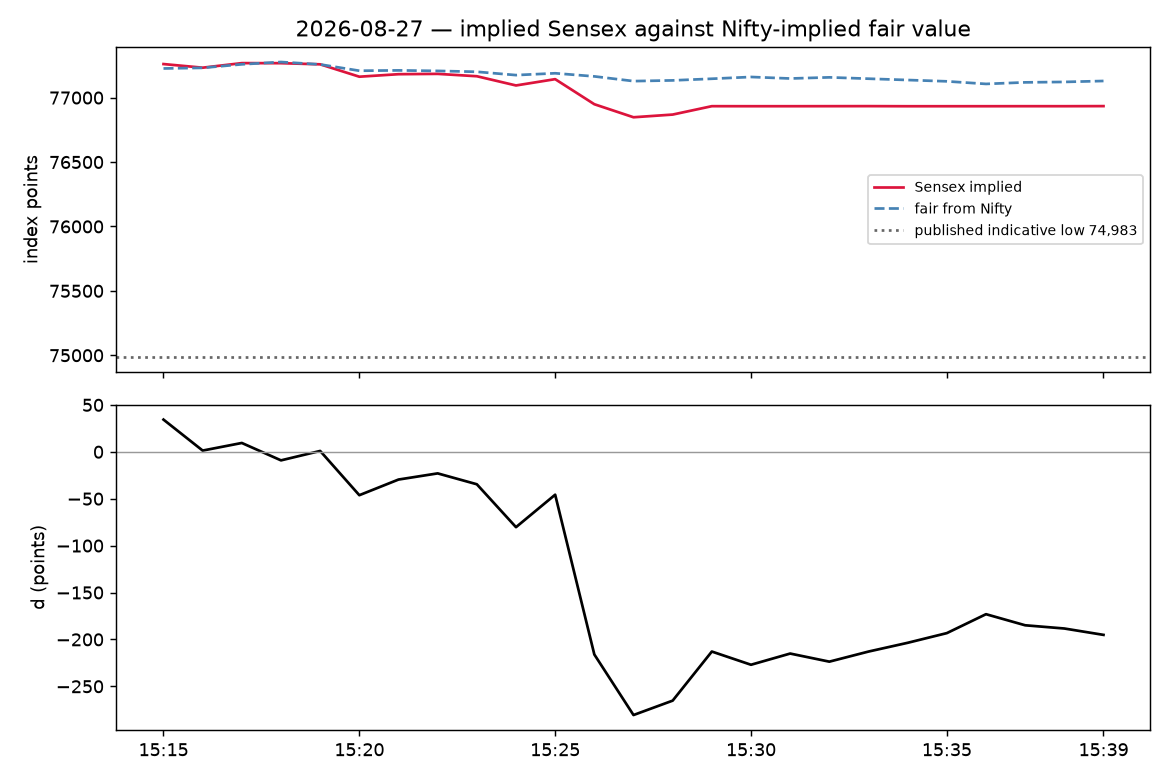
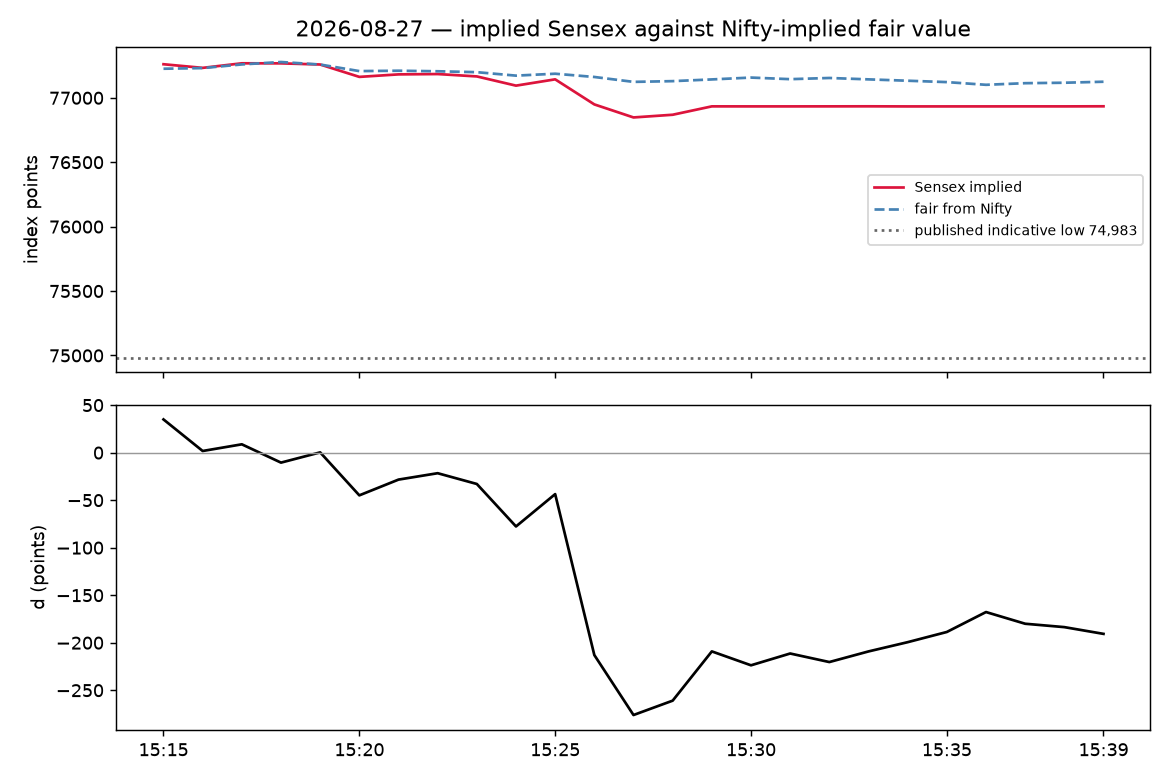
research: fix the beta sample, and report the trigger across beta instead of asserting it
Incorporates the Fable review. Four substantive corrections:

Daily closes now take each session's last index bar before 16:00, and only where that bar
lands at or after 15:20. The NIFTY feed carries stub bars hours after the close, and the
quarantined 08-25 ends at 13:04 - a mid-day level that was being differenced as a close.
Beta moves 0.8703 -> 0.9048 and the fit improves (R2 0.7763 -> 0.8392, SE 0.0853 -> 0.0735).

Whether the trigger fires is the central claim, so it is recomputed across beta rather than
asserted from the point estimate. At X = 0.5% the dislocated session never fires at any
beta from beta-SE to 1, but 08-04 does fire at beta+SE and at beta = 1 - so the blanket
claim "0.5% never fires" was wrong and is now stated with its range.

The 08-27 comparison is restated raw-to-raw and by timing: during the indicative crash
minutes themselves d ran +0.28 to -44.93 points, about 2% of the dislocation, and the
-276.08 peak arrived at 15:27, four minutes after the indicative had recovered.

The band null is split into the arithmetic half (no listed strike lies outside the band)
and the empirical half (no in-band strike traded above its own cap, the tightest being
629.70 points on 08-25). A 4,800% rise from 0.05 to 2.45 rupees sits inside a 75-133 point
cap, so it is not by itself evidence of overpricing, and the corpus carries no bar for that
strike to test either way.

Also: 08-27 ranks third by |d|, not second; S2/S3 sizing labelled notional rather than
[…]

diff --git a/research/expiry_cas/cross_index.py b/research/expiry_cas/cross_index.py
@@ -50,7 +50,8 @@ from load import DATASETS_ROOT, QUARANTINE_ROOT, SessionData, load_session
 
 from xman_research.backtest.costs import ChargeableTrade, Side, StatutoryCostStack, TradeKind
 
-#: Sessions where both underlyings carry option bars under the CAS regime.
+#: Candidate post-CAS sessions. Coverage decides which of them carry a parity-recoverable
+#: chain on both sides — three NIFTY sessions here are published with call bars only.
 SESSIONS = [
     "2026-08-03", "2026-08-04", "2026-08-05", "2026-08-06", "2026-08-07",
     "2026-08-10", "2026-08-11", "2026-08-12", "2026-08-13", "2026-08-14",
@@ -73,6 +74,11 @@ WINDOW_END = dt.time(15, 39)
 
 #: Constituent auction price band, as a fraction of the constituent's reference VWAP.
 BAND = 0.03
+
+#: Earliest last-index-bar a session may have and still contribute a daily close. A feed
+#: that dies before this carries no close, and a mid-day level differenced as one would
+#: report the rest of that day's move on the following session.
+MIN_CLOSE_TIME = dt.time(15, 20)
 
 LOT_DEFAULT = {"SENSEX": 20, "NIFTY": 65}
 
@@ -165,8 +171,12 @@ def _daily_closes(underlying: str) -> pd.Series:
     """Official daily closes from the index symbol's own bars, one per session.
 
     The last index bar of a session carries the settled close (the vendor back-stamps it),
-    which is the number a daily return should use. Sessions where the index symbol is
-    absent are dropped rather than filled.
+    which is the number a daily return should use — but only among **trading minutes**.
+    Some sessions carry a stub bar hours after the close (18:00, and later), and a session
+    whose index feed dies mid-afternoon has no close at all in its bars. Both are excluded
+    by the same rule the session loader applies: bars at or after 16:00 are not trading
+    minutes, and a session whose last surviving index bar predates ``MIN_CLOSE_TIME`` is
+    dropped rather than have a mid-day level stand in for its close.
     """
     out: dict[dt.date, float] = {}
     for root in (DATASETS_ROOT, QUARANTINE_ROOT):
@@ -184,7 +194,13 @@ def _daily_closes(underlying: str) -> pd.Series:
             )
             if frame.empty:
                 continue
-            frame = frame.sort_values("minute_ts")
+            stamps = pd.to_datetime(frame["minute_ts"], unit="us", utc=True).dt.tz_convert(
+                "Asia/Kolkata"
+            )
+            frame = frame.assign(ts=stamps).sort_values("ts")
+            frame = frame[frame["ts"].dt.hour < 16]
+            if frame.empty or frame["ts"].iloc[-1].time() < MIN_CLOSE_TIME:
+                continue
             out[day] = float(frame["close"].iloc[-1])
     return pd.Series(out).sort_index()
 
@@ -768,6 +784,29 @@ def main() -> None:
     )
     triggers = pd.DataFrame([trigger_stats(frames, x) for x in (0.25, 0.5, 1.0, 1.5)])
 
+    # Whether the trigger fires at all is the report's central claim, so it is recomputed
+    # across the estimator's own uncertainty rather than asserted from the point estimate.
+    # beta = 1 sits 1.3 standard errors away and is the case a reader is most likely to
+    # reach for, so it is named explicitly.
+    robustness = []
+    for label, candidate in (
+        ("beta - SE", beta_fit.beta - beta_fit.stderr),
+        ("beta (fitted)", beta_fit.beta),
+        ("beta + SE", beta_fit.beta + beta_fit.stderr),
+        ("beta = 1", 1.0),
+    ):
+        alt = {
+            date: divergence(s_imp, n_imp, candidate) for date, (s_imp, n_imp) in implied.items()
+        }
+        alt = {d: f for d, f in alt.items() if not f.empty}
+        pooled = pd.concat(alt.values())["d_pct"].abs()
+        row: dict[str, object] = {"case": label, "beta": candidate, "max_abs_d_pct": pooled.max()}
+        for x in (0.25, 0.5, 1.0, 1.5):
+            fired = trigger_stats(alt, x)
+            row[f"fired at {x}%"] = f"{fired['sessions_fired']} ({fired['dates']})"
+        robustness.append(row)
+    robustness_frame = pd.DataFrame(robustness)
+
     s1 = pd.DataFrame(
         [
             row
@@ -831,6 +870,9 @@ def main() -> None:
         "## Trigger statistics",
         "",
         _md(triggers),
+        "## Trigger robustness across the beta estimate's own uncertainty",
+        "",
+        _md(robustness_frame, "{:.4f}"),
         "## Band versus ladder",
         "",
         _md(bands),

diff --git a/research/expiry_cas/CROSS_INDEX.md b/research/expiry_cas/CROSS_INDEX.md
@@ -2,14 +2,19 @@
 
 **The thesis under test** (owner, 2026-08-29): *"Sensex jumped during CAS and option premiums skyrocketed; Nifty, highly correlated, didn't move during CAS, so none of Nifty's premiums moved — which means the Sensex move was going to revert. There is a short-term strategy here."*
 
-**The verdict.** The reversion logic is sound and the microstructure supports it, but the dislocation the thesis is built on **is not in the derivatives market**. On 2026-08-27 the Sensex option-implied index moved **−0.40 %** over 15:14 → 15:39 while Nifty's moved **−0.17 %** — both indices moved, in the same direction, and the entire cross-index asymmetry was **280.60 points (−0.36 %) at its peak**. The published indicative index fell **2,199.72 points (−2.85 %)** over the same window. So the derivatives carried **12.8 %** of the dislocation the thesis assumes was tradeable; the other 87 % existed only in the cash auction's indicative feed, which no traded instrument printed and this corpus does not contain.
+**The verdict.** The reversion logic is sound and the microstructure supports it, but the dislocation the thesis is built on **is not in the derivatives market**, and the trigger the strategies need does not fire on the session that matters.
+
+**The timing is the sharpest way to see it.** The published indicative index fell 2,199.72 points (−2.85 %) between **15:18 and 15:23**. Across exactly those minutes the Sensex option-implied index sat between **77,162.45 and 77,267.45** — within ~80 points of its 15:14 reference of 77,242.30 — and the cross-index divergence `d` ran **+0.28 to −44.93 points (≤0.06 %)**. The derivatives carried **~2 % of the dislocation while it was happening**, and did not follow the auction down at all.
+
+What the derivatives did do came later and was much smaller. Sensex implied troughed at **76,847.60 at 15:27** — **−394.70 points (−0.511 %)**, or **17.9 %** of the indicative drop, and four minutes *after* the indicative had already recovered. The Nifty-adjusted residual `d` peaked at **−276.08 points (−0.36 %)** in that same minute, **12.6 %** of the indicative drop. Over 15:14 → 15:39 Sensex implied moved **−0.40 %** and Nifty implied **−0.17 %**: both indices moved, the same way, and the entire cross-index asymmetry is ~180 points.
 
 Consequences, in order of how much they cost:
 
-1. **The trigger never fires.** Across 16 sessions and 400 session-minutes the largest |d| ever observed is **0.465 %** — below the smallest threshold the brief asked to test. At X = 0.5 %, 1 % and 1.5 % the strategies take **zero trades, on every session, including 08-27**.
-2. **At an exploratory X = 0.25 % the trades lose money, and lose it on the dislocated session.** Four sessions fire; the paired spread nets **−₹1,807** across them at a 15:35 exit, and **08-27 itself is a −₹903 loser** because the divergence did not revert — only 31 % of it closed by the end of matching.
-3. **The band-bounded short put dies on arithmetic before any backtest.** The deepest put that traded at the 08-27 trigger collected **3.80 points** against a band-bounded worst case of **1,274.97 points** — a reward-to-risk of **1 : 335**.
-4. **The structurally-overpriced wing the thesis points at is outside the corpus.** Zero strike-minutes are structurally overpriced, and cannot be: on all 16 sessions the strike ladder reaches at most **−2.19 %** from the reference while the auction band binds at **−3 %**. Every listed strike is inside the band, so no listed option can be capped by it.
+1. **The trigger never fires on the dislocated session, under any β considered.** The largest |d| at the fitted β is **0.4818 %** over 400 session-minutes, below the smallest threshold the brief asked to test. At X = 0.5 %, 1 % and 1.5 % the strategies take **zero trades on 08-27** at every β from β̂−SE through β = 1. The one place X = 0.5 % fires at all is at β̂+SE and β = 1 — **once, on 2026-08-04**, an ordinary Nifty expiry (§3.1).
+2. **The band-bounded short put dies on arithmetic before any backtest.** The deepest put that traded at the 08-27 trigger collected **3.80 points gross, 2.61 net** against a band-bounded worst case of **1,274.97 points** — reward-to-risk **1 : 335 gross, 1 : 488 net**.
+3. **The wing the thesis points at is outside the corpus, so the overpricing claim cannot be tested either way.** No listed strike lies outside the ±3 % band on any session, and no in-band strike ever traded above its own cap. The **75,000 PE** that reportedly rose ~4,800 % is 900 points below the lowest strike here and has no bar at any minute (§5).
+
+**Held out of that list deliberately:** the P&L of the exploratory X = 0.25 % trades. That threshold was chosen after seeing the distribution and sits between p90 (0.234 %) and p95 (0.276 %), so it selects the four largest-|d| sessions **by construction**. Its four trades net −₹1,807 and the crash session is among the losers — an illustration of what these structures cost when they fire, not an estimate of anything (§3, §4).
 
 **One incidental finding worth acting on separately:** NIFTY 2026-08-20, 08-21 and 08-24 are in the *published* corpus with **8,085 call bars and zero put bars each**. Parity is impossible on them and any put-based study fails silently. See §5.
 
@@ -19,7 +24,7 @@ Consequences, in order of how much they cost:
 
 Both indices are recovered by put-call parity, `S = C − P + K`, at **one strike per session per underlying**, fixed for the whole session as the strike with the most both-legs-traded minutes over 15:00–15:39. Only minutes where both legs printed volume contribute. Fair value is `S_fair(t) = S_ref × (N_imp(t)/N_ref)^β` with both references at **15:14**, the last minute of continuous cash trading, and `d(t) = S_imp(t) − S_fair(t)`. Divergence is computed **only on minutes live on both indices** — never one side forward-filled to meet the other. Full rationale in the `cross_index.py` module docstring; generated tables in `cross_index_output.md`.
 
-**β = 0.8703** (SE 0.0853), **R² = 0.7763**, n = 32 daily log-return pairs, 2026-07-14 … 2026-08-26, **2026-08-27 excluded** so the estimator is not fitted through the event it is built to detect. β instability is second-order here and is quantified rather than asserted: re-running the whole corpus at **β = 1** moves the 08-27 peak divergence from −280.60 to **−263.60 points**, a 17-point shift against a claimed dislocation of thousands. No conclusion in this document changes sign, magnitude class, or trigger count between the two.
+**β = 0.9048** (SE 0.0735), **R² = 0.8392**, n = 31 daily log-return pairs, 2026-07-14 … 2026-08-26, **2026-08-27 excluded** so the estimator is not fitted through the event it is built to detect. Closes are each session's last index bar **before 16:00**, and only where that bar lands at or after 15:20: the NIFTY feed carries stub bars hours after the close on some sessions, and a session whose feed dies mid-afternoon (the quarantined 08-25, last bar 13:04) has no close to contribute and is dropped rather than have a mid-day level differenced as one. β instability is quantified rather than assumed away: at **β = 1** the 08-27 peak moves from −276.08 to **-263.60 points**, which changes nothing — but the trigger count at X = 0.5 % *does* change, and §3.1 reports it.
 
 ---
 
@@ -29,22 +34,22 @@ Both indices are recovered by put-call parity, `S = C − P + K`, at **one strik
 
 | Session | S expiry | N expiry | d peak | % | at | d @15:30 | d @15:35 | d @15:39 | closed by 15:35 | s_chg % | n_chg % |
 |---|---|---|---|---|---|---|---|---|---|---|---|
-| 2026-08-03 | | | −45.88 | −0.06 | 15:38 ▲ | −14.61 | −17.28 | −35.74 | 17.9 % | +0.03 | +0.09 |
-| **2026-08-04** | | ✓ | **−365.89** | **−0.46** | 15:39 ▲ | −320.45 | −356.71 | −365.89 | 2.4 % | −0.03 | **+0.50** |
-| 2026-08-05 | | | −75.18 | −0.10 | 15:15 | −30.87 | −45.65 | −43.72 | 39.3 % | −0.15 | −0.11 |
-| 2026-08-06 | ✓ | | +325.28 | +0.41 | 15:24 | +54.66 | +64.88 | +57.55 | 80.1 % | +0.08 | +0.00 |
-| 2026-08-07 | | | +22.53 | +0.03 | 15:15 | −0.15 | +10.84 | +21.43 | 51.9 % | +0.01 | −0.02 |
-| 2026-08-10 | | | −19.15 | −0.02 | 15:37 ▲ | −2.17 | −12.71 | −11.30 | **0.0 %** | −0.05 | −0.04 |
-| 2026-08-11 | | ✓ | −54.82 | −0.07 | 15:38 ▲ | −13.40 | −41.37 | −54.52 | 17.3 % | −0.10 | −0.03 |
-| 2026-08-12 | | | +19.69 | +0.03 | 15:27 | +10.37 | +16.63 | +13.84 | 15.5 % | +0.04 | +0.03 |
-| 2026-08-13 | ✓ | | +215.95 | +0.28 | 15:38 ▲ | +205.30 | +205.66 | +215.92 | **0.0 %** | +0.27 | −0.01 |
-| 2026-08-14 | | | −18.62 | −0.02 | 15:39 ▲ | −3.76 | −4.96 | −18.62 | **0.0 %** | −0.04 | −0.02 |
-| 2026-08-17 | | | −10.83 | −0.01 | 15:25 | −1.24 | −0.82 | −4.76 | 92.4 % | −0.14 | −0.16 |
-| 2026-08-18 | | ✓ | +117.30 | +0.15 | 15:27 | +75.60 | +43.65 | −5.75 | 62.8 % | −0.15 | −0.16 |
-| 2026-08-19 | | | −25.59 | −0.03 | 15:39 ▲ | −9.92 | −12.26 | −25.59 | 42.9 % | −0.03 | +0.00 |
-| 2026-08-25 **Q** | | ✓ | −185.78 | −0.24 | 15:28 | −157.48 | −101.28 | −99.88 | 45.5 % | +0.14 | +0.31 |
-| 2026-08-26 | | | −72.19 | −0.09 | 15:29 | −47.25 | −57.30 | −50.73 | 20.6 % | −0.25 | −0.21 |
-| **2026-08-27** | ✓ | | **−280.60** | **−0.36** | 15:27 | −227.00 | −193.28 | −195.16 | 31.1 % | **−0.40** | −0.17 |
+| 2026-08-03 |  |  | −48.23 | −0.06 | 15:38 ▲ | −16.48 | −19.76 | −38.06 | 17.0 % | +0.03 | +0.09 |
+| **2026-08-04** |  | ✓ | **−379.49** | **−0.48** | 15:39 ▲ | −333.99 | −370.30 | −379.49 | 2.3 % | −0.03 | +0.50 |
+| 2026-08-05 |  |  | −68.74 | −0.09 | 15:15 | −30.06 | −43.23 | −40.71 | 37.1 % | −0.15 | −0.11 |
+| 2026-08-06 | ✓ |  | +324.59 | +0.41 | 15:24 | +54.43 | +65.04 | +57.43 | 80.0 % | +0.08 | −0.00 |
+| 2026-08-07 |  |  | +22.03 | +0.03 | 15:15 | +0.59 | +10.97 | +21.97 | 50.2 % | +0.01 | −0.02 |
+| 2026-08-10 |  |  | −18.34 | −0.02 | 15:37 ▲ | −1.96 | −12.05 | −10.18 | **0.0 %** | −0.05 | −0.04 |
+| 2026-08-11 |  | ✓ | −53.97 | −0.07 | 15:38 ▲ | −12.53 | −40.52 | −53.67 | 24.3 % | −0.10 | −0.03 |
+| 2026-08-12 |  |  | +19.27 | +0.02 | 15:27 | +9.62 | +15.90 | +13.13 | 17.5 % | +0.04 | +0.03 |
+| 2026-08-13 | ✓ |  | +216.10 | +0.28 | 15:38 ▲ | +205.03 | +205.39 | +216.05 | **0.0 %** | +0.27 | −0.01 |
+| 2026-08-14 |  |  | −18.15 | −0.02 | 15:39 ▲ | −3.01 | −4.60 | −18.15 | 1.3 % | −0.04 | −0.02 |
+| 2026-08-17 |  |  | −10.07 | −0.01 | 15:25 | +2.13 | +3.03 | −0.58 | 69.9 % | −0.14 | −0.16 |
+| 2026-08-18 |  | ✓ | +122.50 | +0.16 | 15:27 | +79.84 | +47.89 | −1.51 | 60.9 % | −0.15 | −0.16 |
+| 2026-08-19 |  |  | −25.62 | −0.03 | 15:39 ▲ | −10.86 | −12.68 | −25.62 | 43.1 % | −0.03 | −0.00 |
+| 2026-08-25 **Q** |  | ✓ | −194.23 | −0.25 | 15:28 | −165.90 | −109.70 | −108.30 | 43.5 % | +0.14 | +0.31 |
+| 2026-08-26 |  |  | −68.45 | −0.09 | 15:29 | −41.29 | −51.71 | −45.10 | 24.4 % | −0.25 | −0.21 |
+| **2026-08-27** | ✓ |  | **−276.08** | **−0.36** | 15:27 | −223.76 | −188.70 | −190.68 | 31.6 % | −0.40 | −0.17 |
 
 **Closure is measured against the peak reached by 15:35, not the peak over the whole window.** ▲ marks the seven sessions whose largest divergence arrives *after* matching ends — for those, a full-window peak divided by the 15:35 level would not be a reversion statistic at all, and would report a still-widening session as partly reverted. Under the correct definition three of them close by exactly nothing.
 
@@ -52,15 +57,15 @@ Every session carries the full **25 of 25** minutes with **zero fallback minutes
 
 **Three readings.**
 
-- **08-27 is not the extreme session.** The largest divergence in the corpus is **2026-08-04 at −365.89 points**, an ordinary Nifty expiry Tuesday, and it is driven entirely by the Nifty leg (+0.50 % while Sensex was flat) — an expiry pin on the *other* index, not a Sensex dislocation. A live detector keyed on |d| would have ranked the crash day **second**.
-- **Divergence does not reliably revert.** Median closure by 15:35 across the four largest sessions is **16.7 %**, and on 08-10, 08-13 and 08-14 it is **exactly zero** — those sessions were at their widest at 15:35 and still widening. Reversion of the auction dislocation, if it happens, happens *after* the derivatives session ends.
+- **08-27 is not the extreme session.** The largest divergence in the corpus is **2026-08-04 at −379.49 points**, an ordinary Nifty expiry Tuesday, driven entirely by the Nifty leg (+0.50 % while Sensex was flat) — an expiry pin on the *other* index, not a Sensex dislocation. A live detector keyed on |d| would have ranked the crash day **third**, behind 08-04 and 08-06 (+324.59); two of the three largest divergences in the corpus are expiry pins.
+- **Divergence does not reliably revert.** Median closure by 15:35 across the four largest sessions is **17.0 %**, and on 08-10 and 08-13 it is **exactly zero** — those sessions were at their widest at 15:35 and still widening. Reversion of the auction dislocation, if it happens, happens *after* the derivatives session ends.
 - **Both indices moved on 08-27.** The thesis's "Nifty didn't move" is true of the published Nifty *auction indicative* (−0.31 %) and false of Nifty's traded option-implied index over the same minutes (−0.17 %, against Sensex's −0.40 %). The asymmetry is real but is ~180 points, not ~2,200.
 
 ### |d| distribution, all 400 session-minutes
 
 | p50 | p75 | p90 | p95 | max |
 |---|---|---|---|---|
-| 0.023 % | 0.074 % | 0.228 % | 0.277 % | **0.465 %** |
+| 0.024 % | 0.071 % | 0.234 % | 0.276 % | **0.482 %** |
 
 The 95th percentile of divergence is smaller than the smallest threshold the brief asked to test.
 
@@ -72,12 +77,27 @@ The 95th percentile of divergence is smaller than the smallest threshold the bri
 
 | X | sessions fired | trigger minutes | median of per-session longest run | median % closed by 15:35 | sessions |
 |---|---|---|---|---|---|
-| **0.25 %** *(exploratory, post-hoc)* | 4 / 16 | 37 | 10.5 min | 16.7 % | 08-04, 08-06, 08-13, **08-27** |
+| **0.25 %** *(exploratory, post-hoc)* | 4 / 16 | 35 | 10.0 min | 17.0 % | 08-04, 08-06, 08-13, **08-27** |
 | **0.50 %** | **0** / 16 | 0 | — | — | — |
 | **1.00 %** | **0** / 16 | 0 | — | — | — |
 | **1.50 %** | **0** / 16 | 0 | — | — | — |
 
-X = 0.25 % is **not** one of the thresholds the brief specified. It was added after seeing that the specified ones never fire, so every number derived from it is post-hoc and carries no inferential weight — it exists to give the strategies trades to score and to price the false triggers. **Three of its four firings are on non-dislocated sessions**: the false-trigger rate at the only threshold that fires at all is 75 %.
+The largest |d| at the fitted β is **0.4818 %** — below the smallest specified threshold, but by only **3.6 %**, and it occurs on 2026-08-04 rather than on the dislocated session.
+
+X = 0.25 % is **not** one of the thresholds the brief specified. It was added after seeing that the specified ones never fire, so every number derived from it is post-hoc. It sits between p90 (0.234 %) and p95 (0.276 %), so "4 of 16 fired" carries no information — the threshold **selects the four largest-|d| sessions by construction**, and the closure statistic beside it is conditioned on those peaks. **Three of its four firings are non-dislocated sessions**, which is worth knowing as an illustration and is not a false-trigger *rate*: n = 4, chosen post-hoc.
+
+### 3.1 Does the trigger survive the β estimate's own uncertainty?
+
+The zero-trigger result is this report's central claim, so it is recomputed across β rather than asserted from the point estimate. Sessions firing at each threshold:
+
+| case | beta | max_abs_d_pct | fired at 0.25% | fired at 0.5% | fired at 1.0% | fired at 1.5% |
+|---|---|---|---|---|---|---|
+| beta - SE | 0.8312 | 0.4451 | 4 (08-04, 08-06, 08-13, 08-27) | 0 (—) | 0 (—) | 0 (—) |
+| beta (fitted) | 0.9048 | 0.4818 | 4 (08-04, 08-06, 08-13, 08-27) | 0 (—) | 0 (—) | 0 (—) |
+| beta + SE | 0.9783 | 0.5185 | 5 (08-04, 08-06, 08-13, 08-25, 08-27) | 1 (08-04) | 0 (—) | 0 (—) |
+| beta = 1 | 1.0000 | 0.5293 | 5 (08-04, 08-06, 08-13, 08-25, 08-27) | 1 (08-04) | 0 (—) | 0 (—) |
+
+**08-27 never fires at X = 0.5 % under any β in this range** — that part is robust. What is *not* robust is the blanket claim "0.5 % never fires": at β̂+SE (0.9783) and at β = 1 it fires once, on **08-04**, the ordinary Nifty expiry. β = 1 is 1.3 SE from β̂, so a reader who prefers the unit-beta assumption gets one trade, on the wrong session for the thesis. X = 1 % and 1.5 % fire nowhere under any β.
 
 ---
 
@@ -91,17 +111,19 @@ The band is the risk control: the settlement index cannot print below `S_ref × 
 
 | Session | X | entry | strike | premium | band floor | worst case | reward : risk | net ₹/lot | worst ₹/lot | entry volume |
 |---|---|---|---|---|---|---|---|---|---|---|
-| 2026-08-27 | 0.25 % | 15:26 | 76,200 PE | 3.80 | 74,925.03 | **1,274.97 pts** | **1 : 335** | +52.25 | **−25,447.13** | 1,217,380 |
+| 2026-08-27 | 0.25 % | 15:26 | 76,200 PE | 3.80 | 74,925.03 | **1,274.97 pts** | **1 : 335** gross, 1 : 488 net | +52.25 | **−25,447.13** | 1,217,380 |
 
-**No rows at X = 0.5 %, 1 % or 1.5 %** — the trigger never fires. The single exploratory trade wins (the put expired worthless; the implied settlement level of 76,934.15 is within 0.56 points of the official close of 76,933.59), and winning is beside the point: **collecting 3.80 points against a 1,275-point capped loss is not a strategy, it is a 335 : 1 lottery sold at a discount.** One band-limit event inside the corpus's own worst case wipes out 335 winning sessions. The arithmetic is decisive without a backtest and does not improve with a longer sample.
+**No rows at X = 0.5 %, 1 % or 1.5 %** — the trigger never fires. The single exploratory trade wins (the put expired worthless; the implied settlement level of 76,934.15 is within 0.56 points of the official close of 76,933.59), and winning is beside the point: **collecting 3.80 points gross — 2.61 net of cost — against a 1,275-point capped loss is not a strategy, it is a 335 : 1 lottery (488 : 1 after costs) sold at a discount.** One band-limit event inside the corpus's own worst case wipes out 335 winning sessions. The arithmetic is decisive without a backtest and does not improve with a longer sample.
 
 Note the strike: 76,200 is the lowest put that *traded* in the trigger minute, not the lowest listed (75,900). The wing the thesis targets — a **75,000 PE** — is below every strike this corpus carries.
 
-### S2 / S3 — Sensex call spread against the beta-sized opposite Nifty spread
+### S2 / S3 — Sensex call spread against the notional-sized opposite Nifty spread
 
-Two strikes wide on each index, so each leg is defined-risk. Nifty size is the notional-matched, beta-scaled one, rounded to whole lots: **1 Nifty lot per Sensex lot** on every session here (β × 77,242 × 20 / (24,216 × 65) ≈ 0.85 → 1). S2 = long Sensex spread / short Nifty when `d < −X`; S3 is the mirror.
+Two strikes wide on each index, so each leg is defined-risk. Nifty size is notional-matched on the **underlying** and beta-scaled, rounded to whole lots: **1 Nifty lot per Sensex lot** on every session here (β × 77,242 × 20 / (24,216 × 65) ≈ 0.89 → 1).
 
-| Session | leg | entry | d @entry | Sensex strikes | Nifty strikes | net ₹ @15:35 | net ₹ @15:39 | min leg volume |
+**This is notional-sized, not delta-neutral, and the distinction bites.** Neither spread's delta enters the sizing, and the two spreads do not have equal payoff capacity: the Sensex spread is bounded at 200 × 20 = ₹4,000 per lot, the Nifty spread at 100 × 65 = ₹6,500, so at 1 : 1 the "hedge" carries **1.6×** the capacity of the leg it hedges. On **08-04 that is the entire result** — −₹1,856 of the −₹1,896 gross comes from the Nifty leg alone (an expiring Nifty call spread pinning ITM) against −₹2 on the Sensex leg. That row is a Nifty-expiry artefact, not a cross-index trade. S2 = long Sensex spread / short Nifty when `d < −X`; S3 is the mirror.
+
+| Session | leg | entry | d @entry | Sensex strikes | Nifty strikes | net ₹ @15:35 | net ₹ @15:39 | min leg volume (entry & 15:39 exit) |
 |---|---|---|---|---|---|---|---|---|
 | 2026-08-04 | S2 | 15:26 | −0.26 % | 78400/78600 | 24550/24650 | **−2,116.40** | −2,176.40 | 24,700 |
 | 2026-08-06 | S3 | 15:23 | +0.34 % | 79200/79400 | 24700/24800 | **+1,431.76** | +1,468.51 | 17,080 |
@@ -109,7 +131,7 @@ Two strikes wide on each index, so each leg is defined-risk. Nifty size is the n
 | **2026-08-27** | S2 | 15:26 | −0.28 % | 76900/77100 | 24200/24300 | **−902.66** | −980.41 | 26,300 |
 | **Total** | | | | | | **−1,806.76** | **−1,982.51** | |
 
-**No rows at X = 0.5 %, 1 % or 1.5 %.** At the exploratory threshold: **1 winner, 3 losers, negative in aggregate at both exit times, and the dislocated session is among the losers.** Costs are ~₹220 per round trip against gross moves of a few hundred to ~₹1,900, so on the two small trades the cost is the result.
+**No rows at X = 0.5 %, 1 % or 1.5 %.** At the exploratory threshold: **1 winner, 3 losers, negative in aggregate at both exit times, and the dislocated session is among the losers.** Costs are ~₹220 per round trip. On **08-13** the cost *is* the result (gross −₹9.75 against ₹209.71 of cost); on 08-27 cost is 24 % of the loss.
 
 **A structural obstacle the table cannot show.** The brief allows a settlement exit on expiry days. A *paired* trade cannot take one: Sensex expires Thursday and Nifty Tuesday, so on every session in this corpus at most one leg is expiring. Holding to settlement means holding an unhedged overnight position in the other index — a different trade with different risk, not this one.
 
@@ -134,9 +156,15 @@ Each constituent's auction price is confined to ±3 % of its 15:00–15:15 VWAP,
 | Strikes above ceiling | **0** | **0 on every session** |
 | Structurally overpriced strike-minutes | **0** | **0** |
 
-**The null is arithmetic, not empirical.** The ladder is ATM±10 at a 100-point step, so it spans roughly ±1.3 % of spot at the moment it is struck and at most ±2.2 % after the day's drift. The band binds at ±3 %. **No strike this corpus carries can ever be capped by the band, on any session, so the structural-overpricing scan can only ever return zero rows.** It is reported as a null of the test, not evidence that no such option existed.
+**Two claims live here, and only one is arithmetic.**
 
-**What was missed, concretely.** The **75,000 PE** reported up ~4,800 % on 08-27 sits **900 points below the lowest listed strike here**. Against the published 15:15 close of 77,182.91 its band floor is 74,867.42, giving it a maximum possible settlement value of **132.58 points**; against this document's 15:14 implied reference the floor is 74,925.03 and the cap is **74.97 points**. Either way an option that can settle for at most ~75–133 points rose ~4,800 % — which is precisely the structural overpricing the thesis describes, and it is **outside the corpus**. That is the single most important limitation of this analysis: *the test is well-posed, and the data cannot run it where it matters.*
+*Arithmetic:* **no listed strike lies outside the band**, on any session. The ladder is ATM±10 at a 100-point step, spanning roughly ±1.3 % of spot when struck and at most ±2.2 % after drift, against a band at ±3 %. So the strongest form of the test — a put *below the floor*, which cannot settle in the money at all and whose every rupee of price is a claim the band will break — has **no candidate instrument in this corpus and never can**.
+
+*Empirical:* **no in-band strike ever traded above its own cap.** An in-band put is capped at `K − floor`, a finite number a price could in principle exceed. The tightest cap anywhere in the corpus is **629.70 points (0.81 % of spot) on 08-25**; on 08-27 the lowest strike's cap is 1,274.97. Nothing arithmetic forbids a print above those — it is economically absurd, which is an empirical statement, and the zero count is its evidence.
+
+The brief also asks for the *volume* on the overpriced strike-minutes: with zero such minutes there is no volume to report, and the 1,217,380 contracts on S1's entry bar are a different quantity that should not stand in for it.
+
+**What was missed, concretely.** The **75,000 PE** reported up ~4,800 % on 08-27 sits **900 points below the lowest listed strike here**. Against the published 15:15 close of 77,182.91 its band floor is 74,867.42, giving it a maximum possible settlement value of **132.58 points**; against this document's 15:14 implied reference the floor is 74,925.03 and the cap is **74.97 points**. **A ~4,800 % rise is not by itself evidence of overpricing.** ₹0.05 → ₹2.45 is ~4,800 % and sits entirely inside a 75–133-point cap. Structural overpricing requires *price > cap*, and this corpus carries **no bar for the 75,000 PE at any minute**, so the claim can be tested neither way. That is the single most important limitation of this analysis: *the test is well-posed, and the data cannot run it where it matters* — the strike where the thesis's mechanism would bite hardest is exactly the one the corpus cannot see.
 
 ---
 
@@ -167,8 +195,9 @@ Three NIFTY sessions are in the **published** corpus carrying calls only. Put-ca
 ## 8. Honesty
 
 - **n = 16 sessions, one dislocated.** Every statement about behaviour *during a dislocation* rests on a single session. There is no dispersion estimate, no hit rate, and no out-of-sample.
+- **The zero-trigger result is robust where it counts and marginal elsewhere.** At X = 0.5 % the dislocated session never fires at any β from β̂−SE to 1; 08-04 does fire at β̂+SE and β = 1. "The threshold never fires" is true of the fitted β and one SE below it, not of the whole plausible β range (§3.1).
 - **The specified thresholds produce zero trades.** X ∈ {0.5 %, 1 %, 1.5 %} never fire. X = 0.25 % was added post-hoc, after seeing the distribution, purely to obtain trades to score. Its four trades and their −₹1,807 aggregate are an illustration, not an estimate.
-- **β is estimated from ~32 daily returns** (SE 0.0853, R² 0.7763) and excludes the dislocated session. The β = 1 rerun is reported alongside; it changes no conclusion. β from one month of daily data is not stable enough to size a real hedge.
+- **β is estimated from 31 daily returns** (SE 0.0735, R² 0.8392) and excludes the dislocated session. Closes are each session's last index bar before 16:00, taken only where that bar lands at or after 15:20 — the NIFTY feed carries stub bars hours after the close on some sessions, and the quarantined 08-25 ends at 13:04, which is not a close. Dropping 08-25 makes one pair a two-session return rather than a one-session one; it is a contemporaneous pair either way, so it remains a valid observation of *relative* move. β from one month of daily data is not stable enough to size a real hedge, which is why §3.1 reports the trigger count across β rather than at the point estimate alone.
 - **Bar-close fills on every leg** — the optimism is stated above and is not small for a four-legged trade in the last ten minutes of a session.
 - **The band bound is approximate**, computed from the 15:14 implied level rather than the unobservable reference-VWAP index. It is used only to establish a margin of more than 10×.
 - **Structural overpricing is only defined on expiry sessions** — 08-06, 08-13, 08-27 for Sensex. On a chain with days to run no price can be called structurally too high, because the band does not bound tomorrow's gap.
@@ -176,6 +205,10 @@ Three NIFTY sessions are in the **published** corpus carrying calls only. Put-ca
 - **BSE exchange transaction charges are substituted with NSE's.** The stack carries no BSE schedule; the direction of the error is unknown.
 - **"Closed by 15:35" is peak-to-15:35 within 15:15–15:35 only**, and says nothing about what happened after the derivatives session ended — which, given seven sessions peak in the last four minutes, is where any real reversion would have to live. The corpus ends at 15:39 and cannot follow it.
 - **"Median of per-session longest run"** is exactly that — the median across sessions of each session's longest unbroken trigger run. It is not the median length of a run, and it overstates typical persistence if read as one.
+- **S2/S3 sizing is notional, not delta-neutral**, and the 08-04 row is dominated by an expiring Nifty leg rather than by any cross-index relationship.
+- **The band's reference is a proxy with measurable error.** The 15:14 implied level is 77,242.30 against a published 15:15 close of 77,182.91 — 59 points apart — and the 15:00–15:15 reference-VWAP index is unknown. A 0.1–0.3 % proxy error against the 0.81 % tightest ladder-to-band margin is a factor of **3–8×**, not the order of magnitude an earlier draft of this section claimed. The arithmetic claim survives that comfortably; the empirical one is labelled empirical.
+- **The band bound assumes the index is linear in constituent prices with fixed positive intraday weights**, which is what makes a bound on each constituent a bound on the index.
+- **`estimate_beta`, `trigger_stats`, `_first_trigger` and the S2/S3 sign convention are not unit-tested.** The tests cover the implied-index construction, the divergence algebra, the closure statistic and the band test; the strategy and trigger numbers rest on code checked by reading and by the §3.1 robustness table agreeing across four βs.
 - **`s_chg` / `n_chg` are implied moves, not index moves.** The traded index level does not exist in 15:15–15:39 on either underlying; that is the premise of the whole exercise.
 
 ---

diff --git a/research/expiry_cas/cross_index_output.md b/research/expiry_cas/cross_index_output.md
@@ -4,7 +4,7 @@ Sessions with a divergence series: **16** of 19.
 
 ## Beta (Sensex on Nifty, daily log returns, 08-27 excluded)
 
-beta = **0.8703** (SE 0.0853), R2 = **0.7763**, n = 32, 2026-07-14 .. 2026-08-26
+beta = **0.9048** (SE 0.0735), R2 = **0.8392**, n = 31, 2026-07-14 .. 2026-08-26
 
 ## Coverage
 
@@ -34,22 +34,22 @@ beta = **0.8703** (SE 0.0853), R2 = **0.7763**, n = 32, 2026-07-14 .. 2026-08-26
 
 | date | s_expiry | n_expiry | status | minutes | fallback_minutes | s_ref | n_ref | d_peak | d_peak_pct | t_peak | d_peak_clean | s_chg_pct | n_chg_pct | d_1530 | d_1535 | d_1539 | peak_after_match | reverted_pct |
 |---|---|---|---|---|---|---|---|---|---|---|---|---|---|---|---|---|---|---|
-| 2026-08-03 | False | False |  | 25 | 0 | 78703.40 | 24569.80 | -45.88 | -0.06 | 15:38 | -45.88 | 0.03 | 0.09 | -14.61 | -17.28 | -35.74 | True | 17.86 |
-| 2026-08-04 | False | True |  | 25 | 0 | 78409.60 | 24491.70 | -365.89 | -0.46 | 15:39 | -365.89 | -0.03 | 0.50 | -320.45 | -356.71 | -365.89 | True | 2.37 |
-| 2026-08-05 | False | False |  | 25 | 0 | 78628.40 | 24618.85 | -75.18 | -0.10 | 15:15 | -75.18 | -0.15 | -0.11 | -30.87 | -45.65 | -43.72 | False | 39.29 |
-| 2026-08-06 | True | False |  | 25 | 0 | 78893.80 | 24688.05 | 325.28 | 0.41 | 15:24 | 325.28 | 0.08 | 0.00 | 54.66 | 64.88 | 57.55 | False | 80.05 |
-| 2026-08-07 | False | False |  | 25 | 0 | 78700.10 | 24608.60 | 22.53 | 0.03 | 15:15 | 22.53 | 0.01 | -0.02 | -0.15 | 10.84 | 21.43 | False | 51.88 |
-| 2026-08-10 | False | False |  | 25 | 0 | 78688.05 | 24608.35 | -19.15 | -0.02 | 15:37 | -19.15 | -0.05 | -0.04 | -2.17 | -12.71 | -11.30 | True | 0.00 |
-| 2026-08-11 | False | True |  | 25 | 0 | 78307.60 | 24479.55 | -54.82 | -0.07 | 15:38 | -54.82 | -0.10 | -0.03 | -13.40 | -41.37 | -54.52 | True | 17.31 |
-| 2026-08-12 | False | False |  | 25 | 0 | 77994.15 | 24440.90 | 19.69 | 0.03 | 15:27 | 19.69 | 0.04 | 0.03 | 10.37 | 16.63 | 13.84 | False | 15.51 |
-| 2026-08-13 | True | False |  | 25 | 0 | 77867.25 | 24440.10 | 215.95 | 0.28 | 15:38 | 215.95 | 0.27 | -0.01 | 205.30 | 205.66 | 215.92 | True | 0.00 |
-| 2026-08-14 | False | False |  | 25 | 0 | 78169.80 | 24426.55 | -18.62 | -0.02 | 15:39 | -18.62 | -0.04 | -0.02 | -3.76 | -4.96 | -18.62 | True | 0.00 |
-| 2026-08-17 | False | False |  | 25 | 0 | 78028.35 | 24376.90 | -10.83 | -0.01 | 15:25 | -10.83 | -0.14 | -0.16 | -1.24 | -0.82 | -4.76 | False | 92.43 |
-| 2026-08-18 | False | True |  | 25 | 0 | 77467.20 | 24193.55 | 117.30 | 0.15 | 15:27 | 117.30 | -0.15 | -0.16 | 75.60 | 43.65 | -5.75 | False | 62.79 |
-| 2026-08-19 | False | False |  | 25 | 0 | 76991.40 | 24112.40 | -25.59 | -0.03 | 15:39 | -25.59 | -0.03 | 0.00 | -9.92 | -12.26 | -25.59 | True | 42.94 |
-| 2026-08-25 | False | True | Q | 25 | 0 | 77804.40 | 24258.25 | -185.78 | -0.24 | 15:28 | -185.78 | 0.14 | 0.31 | -157.48 | -101.28 | -99.88 | False | 45.49 |
-| 2026-08-26 | False | False |  | 25 | 0 | 77812.90 | 24374.85 | -72.19 | -0.09 | 15:29 | -72.19 | -0.25 | -0.21 | -47.25 | -57.30 | -50.73 | False | 20.63 |
-| 2026-08-27 | True | False |  | 25 | 0 | 77242.30 | 24216.30 | -280.60 | -0.36 | 15:27 | -280.60 | -0.40 | -0.17 | -227.00 | -193.28 | -195.16 | False | 31.12 |
+| 2026-08-03 | False | False |  | 25 | 0 | 78703.40 | 24569.80 | -48.23 | -0.06 | 15:38 | -48.23 | 0.03 | 0.09 | -16.48 | -19.76 | -38.06 | True | 16.97 |
+| 2026-08-04 | False | True |  | 25 | 0 | 78409.60 | 24491.70 | -379.49 | -0.48 | 15:39 | -379.49 | -0.03 | 0.50 | -333.99 | -370.30 | -379.49 | True | 2.29 |
+| 2026-08-05 | False | False |  | 25 | 0 | 78628.40 | 24618.85 | -68.74 | -0.09 | 15:15 | -68.74 | -0.15 | -0.11 | -30.06 | -43.23 | -40.71 | False | 37.12 |
+| 2026-08-06 | True | False |  | 25 | 0 | 78893.80 | 24688.05 | 324.59 | 0.41 | 15:24 | 324.59 | 0.08 | 0.00 | 54.43 | 65.04 | 57.43 | False | 79.96 |
+| 2026-08-07 | False | False |  | 25 | 0 | 78700.10 | 24608.60 | 22.03 | 0.03 | 15:15 | 22.03 | 0.01 | -0.02 | 0.59 | 10.97 | 21.97 | False | 50.19 |
+| 2026-08-10 | False | False |  | 25 | 0 | 78688.05 | 24608.35 | -18.34 | -0.02 | 15:37 | -18.34 | -0.05 | -0.04 | -1.96 | -12.05 | -10.18 | True | 0.00 |
+| 2026-08-11 | False | True |  | 25 | 0 | 78307.60 | 24479.55 | -53.97 | -0.07 | 15:38 | -53.97 | -0.10 | -0.03 | -12.53 | -40.52 | -53.67 | True | 24.31 |
+| 2026-08-12 | False | False |  | 25 | 0 | 77994.15 | 24440.90 | 19.27 | 0.02 | 15:27 | 19.27 | 0.04 | 0.03 | 9.62 | 15.90 | 13.13 | False | 17.50 |
+| 2026-08-13 | True | False |  | 25 | 0 | 77867.25 | 24440.10 | 216.10 | 0.28 | 15:38 | 216.10 | 0.27 | -0.01 | 205.03 | 205.39 | 216.05 | True | 0.00 |
+| 2026-08-14 | False | False |  | 25 | 0 | 78169.80 | 24426.55 | -18.15 | -0.02 | 15:39 | -18.15 | -0.04 | -0.02 | -3.01 | -4.60 | -18.15 | True | 1.29 |
+| 2026-08-17 | False | False |  | 25 | 0 | 78028.35 | 24376.90 | -10.07 | -0.01 | 15:25 | -10.07 | -0.14 | -0.16 | 2.13 | 3.03 | -0.58 | False | 69.91 |
+| 2026-08-18 | False | True |  | 25 | 0 | 77467.20 | 24193.55 | 122.50 | 0.16 | 15:27 | 122.50 | -0.15 | -0.16 | 79.84 | 47.89 | -1.51 | False | 60.90 |
+| 2026-08-19 | False | False |  | 25 | 0 | 76991.40 | 24112.40 | -25.62 | -0.03 | 15:39 | -25.62 | -0.03 | 0.00 | -10.86 | -12.68 | -25.62 | True | 43.12 |
+| 2026-08-25 | False | True | Q | 25 | 0 | 77804.40 | 24258.25 | -194.23 | -0.25 | 15:28 | -194.23 | 0.14 | 0.31 | -165.90 | -109.70 | -108.30 | False | 43.52 |
+| 2026-08-26 | False | False |  | 25 | 0 | 77812.90 | 24374.85 | -68.45 | -0.09 | 15:29 | -68.45 | -0.25 | -0.21 | -41.29 | -51.71 | -45.10 | False | 24.45 |
+| 2026-08-27 | True | False |  | 25 | 0 | 77242.30 | 24216.30 | -276.08 | -0.36 | 15:27 | -276.08 | -0.40 | -0.17 | -223.76 | -188.70 | -190.68 | False | 31.65 |
 
 ## Divergence per session (beta = 1)
 
@@ -76,20 +76,29 @@ beta = **0.8703** (SE 0.0853), R2 = **0.7763**, n = 32, 2026-07-14 .. 2026-08-26
 
 | quantile | abs_d_pct |
 |---|---|
-| p50 | 0.0231 |
-| p75 | 0.0741 |
-| p90 | 0.2284 |
-| p95 | 0.2774 |
-| max | 0.4646 |
+| p50 | 0.0237 |
+| p75 | 0.0714 |
+| p90 | 0.2339 |
+| p95 | 0.2761 |
+| max | 0.4818 |
 
 ## Trigger statistics
 
 | threshold_pct | sessions_fired | sessions_total | trigger_minutes | median_longest_run_minutes | median_closed_by_1535_pct | dates |
 |---|---|---|---|---|---|---|
-| 0.25 | 4 | 16 | 37 | 10.50 | 16.74 | 08-04, 08-06, 08-13, 08-27 |
+| 0.25 | 4 | 16 | 35 | 10.00 | 16.97 | 08-04, 08-06, 08-13, 08-27 |
 | 0.50 | 0 | 16 | 0 | — | — | — |
 | 1.00 | 0 | 16 | 0 | — | — | — |
 | 1.50 | 0 | 16 | 0 | — | — | — |
+
+## Trigger robustness across the beta estimate's own uncertainty
+
+| case | beta | max_abs_d_pct | fired at 0.25% | fired at 0.5% | fired at 1.0% | fired at 1.5% |
+|---|---|---|---|---|---|---|
+| beta - SE | 0.8312 | 0.4451 | 4 (08-04, 08-06, 08-13, 08-27) | 0 (—) | 0 (—) | 0 (—) |
+| beta (fitted) | 0.9048 | 0.4818 | 4 (08-04, 08-06, 08-13, 08-27) | 0 (—) | 0 (—) | 0 (—) |
+| beta + SE | 0.9783 | 0.5185 | 5 (08-04, 08-06, 08-13, 08-25, 08-27) | 1 (08-04) | 0 (—) | 0 (—) |
+| beta = 1 | 1.0000 | 0.5293 | 5 (08-04, 08-06, 08-13, 08-25, 08-27) | 1 (08-04) | 0 (—) | 0 (—) |
 
 ## Band versus ladder
 

diff --git a/research/expiry_cas/REPORT.md b/research/expiry_cas/REPORT.md
@@ -125,7 +125,7 @@ Because derivatives trade continuously to 15:40 (§0.0), **every option bar span
 
 §0.3 shows the Sensex options discounting the indicative crash. The natural follow-up is whether the dislocation is visible as a *divergence against Nifty*, which shares most of the same risk factors and had no auction dislocation that day. **`research/expiry_cas/CROSS_INDEX.md`** runs that test over the 16 post-CAS sessions where both underlyings carry a parity-recoverable chain, minute by minute across 15:15–15:39.
 
-The short version: the divergence is real but **small and non-reverting** — median closure by 15:35 across the four largest sessions is **16.7 %**, and three sessions close by exactly nothing. Peak `d` on 08-27 is **−280.60 points (−0.36 %)** against a published indicative dislocation of −2,199.72 points, so the derivatives carried **12.8 %** of it; **2026-08-04, an ordinary Nifty expiry, diverged more (−365.89)**; the largest |d| anywhere in the corpus is **0.465 %**, so the trigger thresholds the owner's strategies need (≥0.5 %) **never fire on any session**. The band-bounded wing trade collects 3.80 points against a 1,274.97-point capped loss, and every listed strike sits inside the ±3 % auction band, so the structural-overpricing scan is arithmetically guaranteed to return nothing — the 75,000 PE that moved is 900 points below the lowest strike in the corpus.
+The short version: the divergence is **small, late, and non-reverting**. During the indicative crash itself (15:18–15:23) the Sensex option-implied index barely moved — `d` ran **+0.28 to −44.93 points (≤0.06 %)**, about **2 %** of the 2,199.72-point indicative drop. `d` peaked at **−276.08 points (−0.36 %)** only at **15:27**, four minutes after the indicative had recovered, and **2026-08-04 — an ordinary Nifty expiry — diverged more (−379.49)**. The largest |d| anywhere in the corpus is **0.4818 %**, so the ≥0.5 % trigger the owner's strategies need **never fires on 08-27 at any β** from β̂−SE to 1 (it fires once at β = 1, on 08-04). Median closure by 15:35 across the four largest sessions is **17.0 %**. The band-bounded wing trade collects 3.80 points gross against a 1,274.97-point capped loss, and no listed strike lies outside the ±3 % band — the 75,000 PE that moved is 900 points below the lowest strike in the corpus and has no bar here, so its overpricing can be tested neither way.
 
 ---
 
